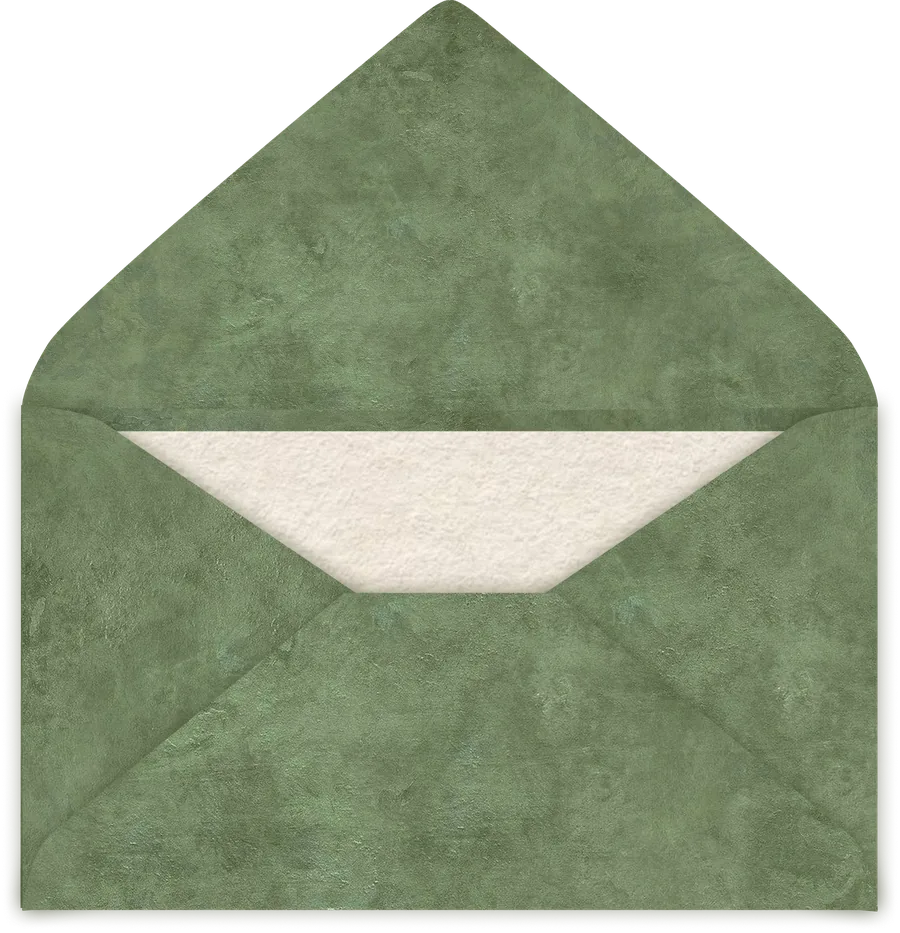
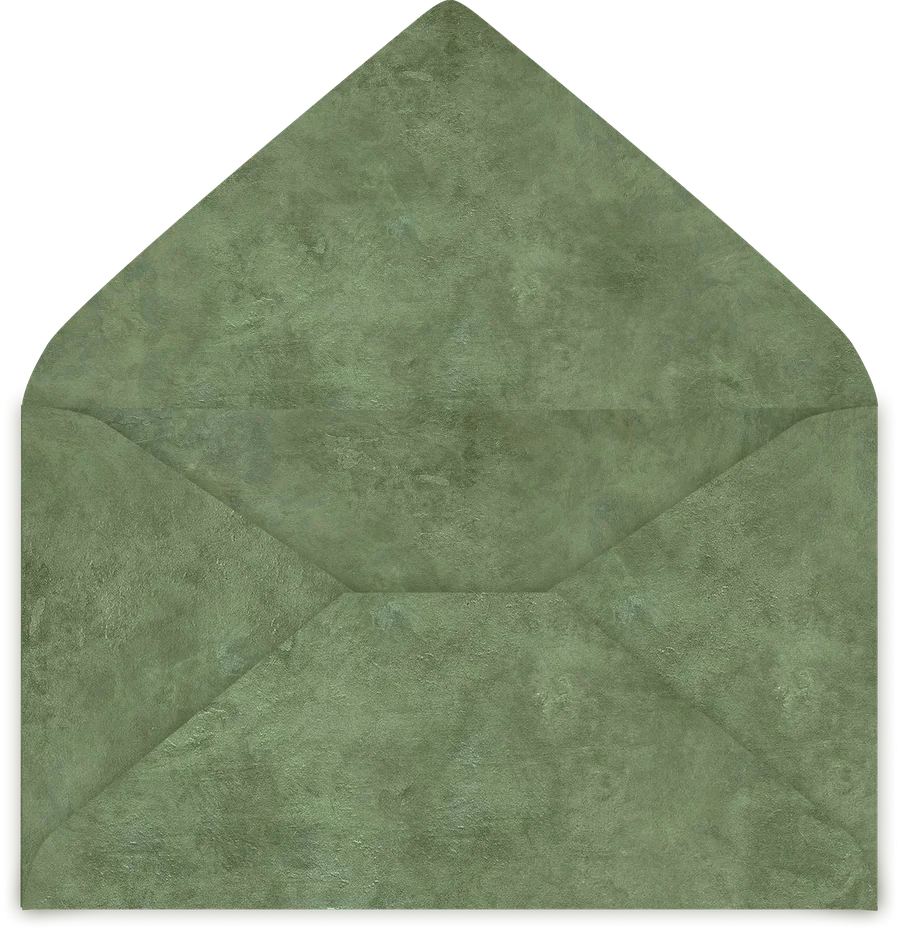
New clean tree, empty envelopes, and a wax seal that stamps in
- Tree: Chelsea's cleaned-up warmly lit tree
- Envelopes: empty versions; the Dear Santa letter and the reveal card are the paper
- Wax seal is its own image: stamps down onto the green envelope in the wrapping
  moment, sits on the red envelope before the reveal
- Pocket clip updated to the new envelopes' flat-bottomed V
- Bells on the reveal card; tree illustration on the skipped-letter greeting

Claude-Session: https://claude.ai/code/session_01TgeN8hNkkr1b1FPg896u1b

Changed region(s): [[0.1244, 0.4356, 0.8711, 0.6534]]

diff --git a/app/b/player.css b/app/b/player.css
@@ -295,6 +295,22 @@ textarea.input { resize: vertical; min-height: 96px; }
 .lost__card { width: min(420px, 100%); }
 .lost .pc { padding: 32px 24px; text-align: center; gap: 12px; }
 
+/* ---------- Sealed envelope + wax seal */
+.sealed-env { position: relative; display: block; }
+.sealed-env__paper { display: block; width: 100%; }
+.sealed-env__seal {
+  position: absolute; left: 50%; top: 64%; width: 24%; transform: translate(-50%, -50%);
+  filter: drop-shadow(0 2px 2px rgb(51 31 20 / 0.3));
+}
+/* the stamp comes down from above, presses in, and settles */
+.sealed-env__seal.is-press { animation: wax-press 0.95s cubic-bezier(.3, 0, .2, 1) 0.35s both; }
+@keyframes wax-press {
+  0% { opacity: 0; transform: translate(-50%, -50%) translateY(-70px) scale(2.3) rotate(-16deg); filter: drop-shadow(0 26px 14px rgb(51 31 20 / 0.25)); }
+  52% { opacity: 1; transform: translate(-50%, -50%) scale(0.9) rotate(0deg); filter: drop-shadow(0 1px 1px rgb(51 31 20 / 0.4)); }
+  70% { transform: translate(-50%, -50%) scale(1.05); }
+  100% { transform: translate(-50%, -50%) scale(1); filter: drop-shadow(0 2px 2px rgb(51 31 20 / 0.3)); }
+}
+
 /* ---------- Wrapping moment (after "Wrap it up") — about 8 seconds, four beats */
 .moment {
   position: fixed; inset: 0; z-index: 5000; background: var(--color-bg-page); cursor: pointer;
@@ -319,16 +335,17 @@ textarea.input { resize: vertical; min-height: 96px; }
 .moment__letter-text { display: -webkit-box; -webkit-line-clamp: 6; -webkit-box-orient: vertical; overflow: hidden; }
 .moment__letter-sign { font-size: 13px !important; color: var(--color-text-accent); }
 .moment__envelope { position: absolute; bottom: 10px; width: 216px; z-index: 0; animation: rise-in 0.6s ease-out both; }
-.moment__envelope--front { z-index: 2; clip-path: polygon(0 46.1%, 13.3% 46.1%, 49.8% 63.9%, 86.2% 46.1%, 100% 46.1%, 100% 100%, 0 100%); }
+.moment__envelope--front { z-index: 2; clip-path: polygon(0 43.5%, 38% 63.5%, 62% 63.5%, 100% 43.5%, 100% 100%, 0 100%); }
 
 /* 2 · flap closes, the seal presses in, hearts float up */
 .moment__opened-out { position: absolute; width: 216px; animation: fade-out 0.45s ease-in both; }
-.moment__sealed { width: 220px; animation: seal 1.2s ease-out 0.25s both; }
+.moment__sealed { width: 220px; }
+.moment__sealed.is-pressing .sealed-env__paper { animation: seal 0.6s ease-out 0.82s both; }
 .moment__hearts { position: absolute; top: 6px; width: 96px; fill: none; stroke: var(--color-text-accent); stroke-width: 3; stroke-linecap: round; }
 .moment__hearts path { opacity: 0; animation: heart-up 1.3s ease-out both; }
-.moment__hearts .h1 { animation-delay: 0.8s; }
-.moment__hearts .h2 { animation-delay: 1.0s; }
-.moment__hearts .h3 { animation-delay: 1.2s; }
+.moment__hearts .h1 { animation-delay: 1.1s; }
+.moment__hearts .h2 { animation-delay: 1.3s; }
+.moment__hearts .h3 { animation-delay: 1.5s; }
 
 /* 3 · the box appears, the envelope slides under the ribbon, the tag swings in */
 .moment__scene--box .moment__box { width: 160px; animation: box-in 0.7s cubic-bezier(.2, .8, .2, 1) both; }
@@ -410,11 +427,11 @@ textarea.input { resize: vertical; min-height: 96px; }
 .reveal__caption { margin: 0; color: var(--color-text-accent); animation: caption-in 0.6s ease-out both; }
 .reveal__stage { position: relative; width: 300px; height: 300px; display: grid; place-items: center; }
 .reveal__sealed { position: relative; padding: 0; border: 0; background: none; cursor: pointer; width: 290px; animation: rise-in 0.8s ease-out both; }
-.reveal__sealed img { width: 100%; display: block; filter: drop-shadow(0 8px 14px rgb(51 31 20 / 0.22)); }
+.reveal__sealed .sealed-env__paper { filter: drop-shadow(0 8px 14px rgb(51 31 20 / 0.22)); }
 .reveal__sealed:not(:disabled):hover { transform: translateY(-2px); transition: transform 0.2s; }
 .is-crack .reveal__sealed { animation: shake 0.5s ease-in-out 0.25s 2; }
 /* gold flash and little cracks around the wax seal */
-.reveal__crack { position: absolute; left: 50%; top: 66%; width: 0; height: 0; }
+.reveal__crack { position: absolute; left: 50%; top: 64%; width: 0; height: 0; }
 .reveal__crack::before {
   content: ""; position: absolute; left: -46px; top: -46px; width: 92px; height: 92px; border-radius: 50%;
   background: radial-gradient(circle, rgb(255 236 170 / 0.95), rgb(240 190 70 / 0.5) 45%, transparent 70%);
@@ -428,7 +445,7 @@ textarea.input { resize: vertical; min-height: 96px; }
 .reveal__crack i { animation: crack-out 0.8s ease-out 0.55s both; }
 .reveal__opened { position: relative; width: 300px; height: 300px; }
 .reveal__env { position: absolute; left: 25px; bottom: 0; width: 250px; z-index: 0; animation: fade-in 0.5s ease-out both; }
-.reveal__env--front { z-index: 2; clip-path: polygon(0 46.1%, 13.8% 46.1%, 50% 63.5%, 86.2% 46.1%, 100% 46.1%, 100% 100%, 0 100%); }
+.reveal__env--front { z-index: 2; clip-path: polygon(0 43.5%, 38% 63.5%, 62% 63.5%, 100% 43.5%, 100% 100%, 0 100%); }
 .reveal-card-wrap {
   position: absolute; z-index: 1; left: 15px; top: 14px; width: 270px;
   transform: translateY(116px) scale(0.72); filter: drop-shadow(0 8px 12px rgb(51 31 20 / 0.22));

diff --git a/app/b/_ui/client.tsx b/app/b/_ui/client.tsx
@@ -2,7 +2,7 @@
 
 import { useEffect, useState } from "react";
 import { markOpened } from "../[token]/actions";
-import { GiftBox } from "./pieces";
+import { GiftBox, SealedEnvelope } from "./pieces";
 
 /** Marks the link as opened from the browser, so Messenger's link preview doesn't count. */
 export function OpenedPing({ token }: { token: string }) {
@@ -24,7 +24,7 @@ export function CleanUrl() {
 // Each beat gets time to land. Total ≈ 9.5s, then a soft fade to the tree.
 const SCENES = [
   { caption: "Tucking in your letter…", ms: 2200 },
-  { caption: "Sealing it with wax…", ms: 1900 },
+  { caption: "Sealing it with wax…", ms: 2400 },
   { caption: "Tucked under your ribbon…", ms: 2000 },
   { caption: "Off it goes, under the tree!", ms: 3800 },
 ];
@@ -98,13 +98,13 @@ export function WrapMoment({
               <path className="h3" d="M78 86c-12-8-17-18-10-25 5-5 11-1 12 5 2-7 9-9 13-4 6 7-3 17-15 24z" />
             </svg>
             <img className="moment__opened-out" src="/assets/envelope-green-opened.webp" alt="" />
-            <img className="moment__sealed" src="/assets/envelope-green-sealed.webp" alt="" />
+            <SealedEnvelope color="green" stamp="press" className="moment__sealed" />
           </div>
         )}
         {scene === 2 && (
           <div className="moment__scene moment__scene--box" key="s2">
             <GiftBox paper={paper} bow={bow} tag={name} className="moment__box sticker" />
-            <img className="moment__tucked" src="/assets/envelope-green-sealed.webp" alt="" />
+            <SealedEnvelope color="green" className="moment__tucked" />
           </div>
         )}
         {scene === 3 && (

diff --git a/app/b/_ui/Reveal.tsx b/app/b/_ui/Reveal.tsx
@@ -5,6 +5,7 @@
 import Link from "next/link";
 import { useEffect, useRef, useState } from "react";
 import { openEnvelope } from "../[token]/actions";
+import { SealedEnvelope } from "./pieces";
 
 type Stage = "sealed" | "crack" | "open" | "card";
 const CRACK_MS = 1400;
@@ -61,7 +62,7 @@ export function RevealEnvelope({
         <div className={`reveal__stage is-${stage}`}>
           {(stage === "sealed" || stage === "crack") && (
             <button type="button" className="reveal__sealed" onClick={start} aria-label="Break the seal" disabled={stage !== "sealed"}>
-              <img src="/assets/envelope-red-sealed.webp" alt="" />
+              <SealedEnvelope color="red" />
               {stage === "crack" && (
                 <span className="reveal__crack" aria-hidden>
                   {Array.from({ length: 8 }, (_, i) => <i key={i} style={{ transform: `rotate(${i * 45 + 20}deg) translateY(-40px)` }} />)}

diff --git a/app/b/_ui/pieces.tsx b/app/b/_ui/pieces.tsx
@@ -32,6 +32,24 @@ export function GiftBox({
   );
 }
 
+/** Sealed envelope with the wax seal on top. "press" stamps it in (wrapping moment). */
+export function SealedEnvelope({
+  color,
+  stamp = "static",
+  className = "",
+}: {
+  color: "red" | "green";
+  stamp?: "static" | "press";
+  className?: string;
+}) {
+  return (
+    <span className={`sealed-env ${stamp === "press" ? "is-pressing" : ""} ${className}`} aria-hidden>
+      <img className="sealed-env__paper" src={asset(`envelope-${color}-sealed`)} alt="" draggable={false} />
+      <img className={`sealed-env__seal ${stamp === "press" ? "is-press" : ""}`} src={asset("wax-seal")} alt="" draggable={false} />
+    </span>
+  );
+}
+
 /** Notched gift tag. Posted = wine name; waiting = muted, dashed, "Still wrapping". */
 export function NameTag({
   name,
